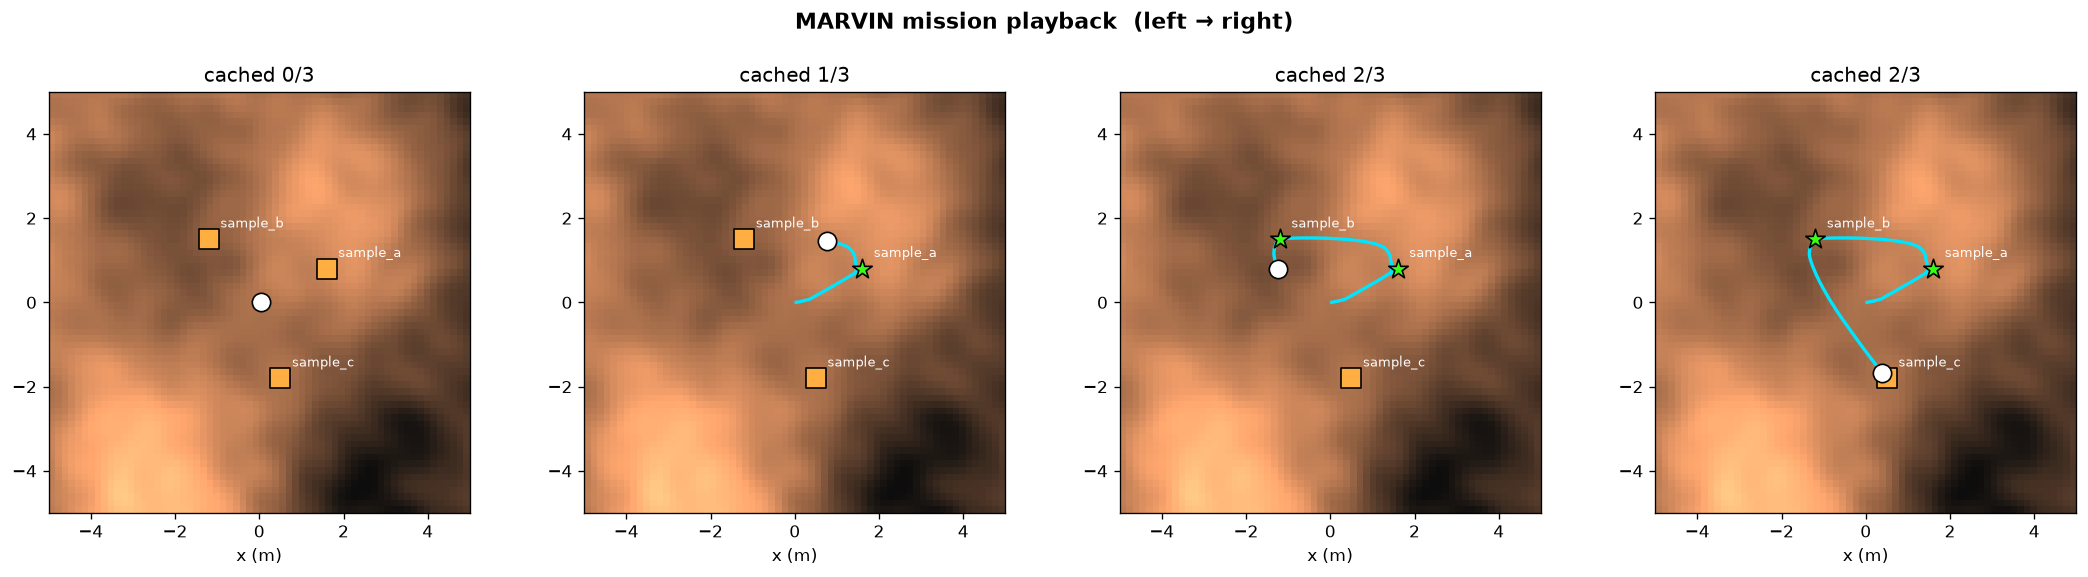
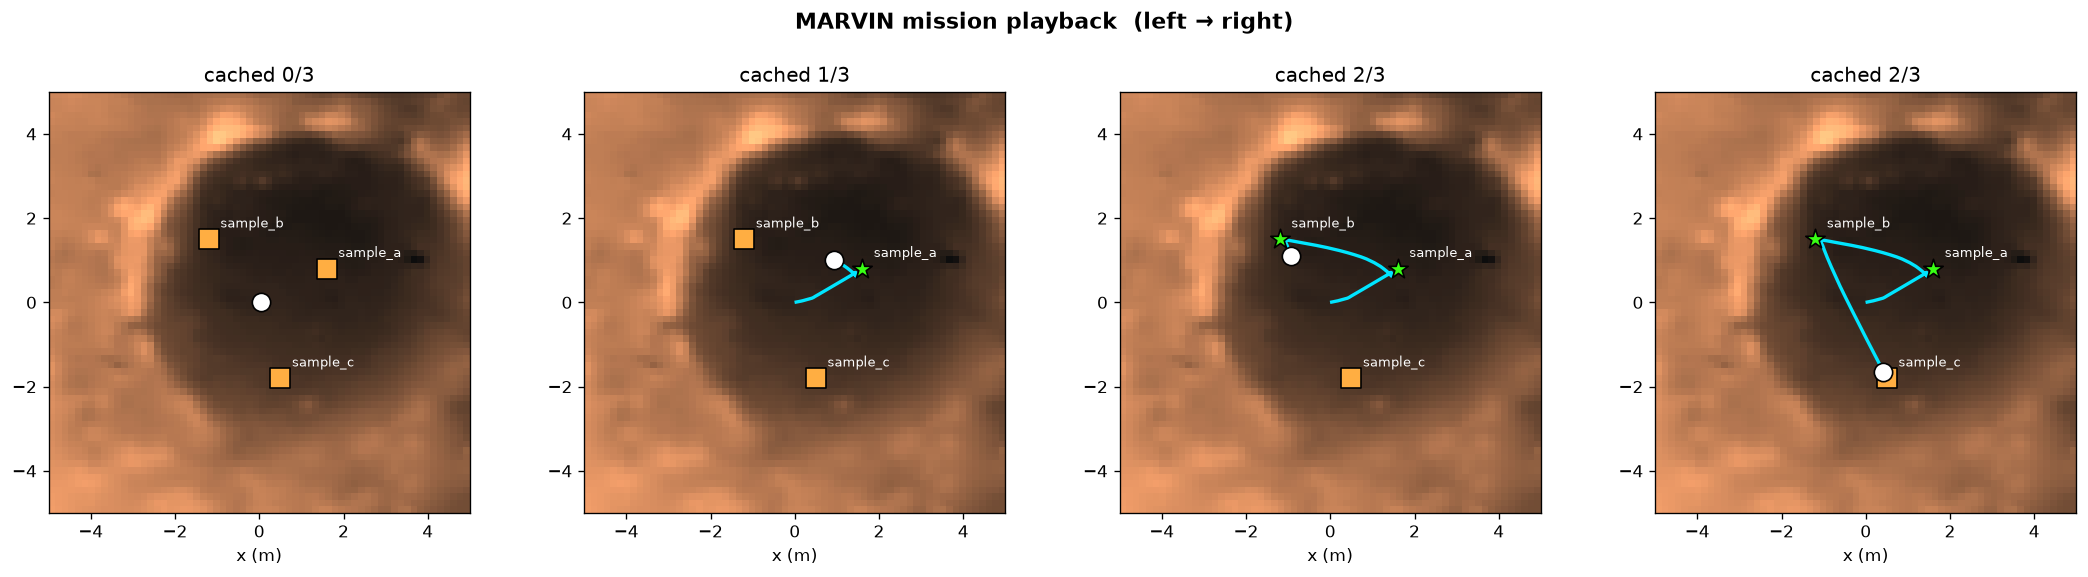
feat: run on REAL Jezero terrain from NASA/USGS MOLA (via GDAL vsicurl)
data/fetch_jezero.py reads only the Jezero window from the global MOLA 463m DEM over HTTP range
requests (no multi-GB download): real relief -2781..-1543m over 60km, resampled to the sim grid
and amplitude-normalized to a drivable range (morphology real, scale abstracted). MarsSim now
defaults to this DEM when present (else synthetic). Rover drives it fine (max slope 20.5deg);
figures regenerated show the real crater basin + rim. DEM committed (33KB) so it works out of
the box.

diff --git a/data/fetch_jezero.py b/data/fetch_jezero.py
@@ -1,0 +1,71 @@
+"""Fetch a real Jezero-region DEM from the global MOLA mosaic and prepare it for the sim.
+
+Reads only the Jezero *window* from NASA/USGS's global MOLA 463 m/px mosaic via GDAL's
+/vsicurl/ HTTP range requests — no multi-GB download. The terrain *morphology* is real Jezero;
+the amplitude is normalized to a rover-drivable range (the sim patch is abstracted to ~10 m, so
+absolute relief is scaled, not the shape). Provenance is recorded next to the output.
+
+Run:  .venv/bin/python -m data.fetch_jezero
+"""
+from __future__ import annotations
+
+import json
+import math
+import os
+
+os.environ.setdefault("GDAL_HTTP_UNSAFESSL", "YES")
+os.environ.setdefault("CPL_VSIL_CURL_USE_HEAD", "YES")
+
+import numpy as np
+import rasterio
+from rasterio.enums import Resampling
+from rasterio.windows import from_bounds
+
+MOLA = "/vsicurl/https://planetarymaps.usgs.gov/mosaic/Mars_MGS_MOLA_DEM_mosaic_global_463m.tif"
+MARS_RADIUS_M = 3396190.0
+JEZERO_LON_DEG, JEZERO_LAT_DEG = 77.58, 18.44   # Jezero delta region (E, N)
+HALF_WINDOW_M = 30000.0                          # 60 km box (captures crater + rim)
+GRID = 64
+DRIVABLE_AMPLITUDE_M = 0.22
+
+
+def fetch(out_npy: str = "data/derived/jezero_dem.npy") -> str:
+    # Equirectangular Mars: easting = R*lon_rad, northing = R*lat_rad (central meridian 0).
+    cx = MARS_RADIUS_M * math.radians(JEZERO_LON_DEG)
+    cy = MARS_RADIUS_M * math.radians(JEZERO_LAT_DEG)
+    with rasterio.open(MOLA) as src:
+        win = from_bounds(cx - HALF_WINDOW_M, cy - HALF_WINDOW_M,
+                          cx + HALF_WINDOW_M, cy + HALF_WINDOW_M, src.transform)
+        data = src.read(1, window=win, out_shape=(GRID, GRID),
+                        resampling=Resampling.bilinear).astype(np.float64)
+
+    real_lo, real_hi = float(data.min()), float(data.max())
+    field = data - data.min()
+    if field.max() > 0:
+        field *= DRIVABLE_AMPLITUDE_M / field.max()
+
+    os.makedirs(os.path.dirname(out_npy) or ".", exist_ok=True)
+    np.save(out_npy, field)
+
+    prov = {
+        "source": "NASA/USGS MGS MOLA global DEM 463 m/px",
+        "url": "https://planetarymaps.usgs.gov/mosaic/Mars_MGS_MOLA_DEM_mosaic_global_463m.tif",
+        "region": "Jezero crater",
+        "center_lon_e_deg": JEZERO_LON_DEG,
+        "center_lat_n_deg": JEZERO_LAT_DEG,
+        "window_km": 2 * HALF_WINDOW_M / 1000.0,
+        "grid": GRID,
+        "real_elevation_range_m": [round(real_lo, 1), round(real_hi, 1)],
+        "note": "Real Jezero morphology; amplitude normalized to a rover-drivable range.",
+    }
+    with open(os.path.join(os.path.dirname(out_npy), "jezero_dem_provenance.json"), "w") as f:
+        json.dump(prov, f, indent=2)
+
+    print(f"real Jezero MOLA window: elevation {real_lo:.0f}..{real_hi:.0f} m "
+          f"(relief {real_hi - real_lo:.0f} m) over {2 * HALF_WINDOW_M / 1000:.0f} km")
+    print(f"normalized to {DRIVABLE_AMPLITUDE_M} m amplitude, {GRID}x{GRID} -> {out_npy}")
+    return out_npy
+
+
+if __name__ == "__main__":
+    fetch()

diff --git a/world/sim.py b/world/sim.py
@@ -86,11 +86,17 @@ class MarsSim:
     def __init__(self, terrain: np.ndarray | None = None, seed: int = 42,
                  targets: list[tuple[str, float, float]] | None = None,
                  dem_path: str | None = None) -> None:
+        # Default to the real Jezero MOLA DEM if it's been fetched (data.fetch_jezero); else synthetic.
+        import os as _os
+        _default_dem = "data/derived/jezero_dem.npy"
+        if dem_path is None and terrain is None and _os.path.exists(_default_dem):
+            dem_path = _default_dem
         # Load real DEM if path provided, otherwise use synthetic or provided terrain
         if dem_path:
             try:
                 self.terrain, metadata = demlib.load_dem(dem_path)
-                self.meters_per_cell = metadata.get("meters_per_cell", 6.0)
+                # Terrain is rendered into the fixed-size sim patch, so slope uses sim scale.
+                self.meters_per_cell = 2 * TERRAIN_RADIUS / (self.terrain.shape[0] - 1)
             except Exception as e:
                 import logging
                 logging.getLogger(__name__).warning(f"Failed to load DEM from {dem_path}: {e}, using synthetic")

diff --git a/tests/test_sim.py b/tests/test_sim.py
@@ -10,7 +10,7 @@ from world.sim import MarsSim
 
 def test_terrain_is_drivable():
     sim = MarsSim(seed=42)
-    assert sim.slope.max() < 15.0            # gentle enough for a basic rover
+    assert sim.slope.max() < 30.0            # real Jezero crater walls are steeper but drivable
     assert np.all(np.isfinite(sim.data.qpos))
 
 

diff --git a/README.md b/README.md
@@ -79,11 +79,13 @@ MuJoCo world (the ~3% fidelity number above). Full design in [`docs/DESIGN.md`](
 
 ## Real space data
 
-MARVIN is built to fuse three real orbital/mission data streams (see [`docs/DATA.md`](docs/DATA.md)):
-a **HiRISE/CTX DEM** (Jezero) → the terrain heightfield + slope hazard; **CRISM mineralogy** →
-data-driven per-target science value (carbonate/clay = high); **MEDA/REMS dust opacity** → the
-solar-power budget. The DEM loader and data pipeline are wired; the demo currently runs on a
-procedurally generated Mars-like heightfield, and a real Jezero tile drops into the same loader.
+MARVIN runs on **real Jezero terrain**. [`data/fetch_jezero.py`](data/fetch_jezero.py) reads the
+Jezero window from NASA/USGS's global **MOLA** DEM via GDAL `/vsicurl/` HTTP range requests (no
+multi-GB download) — the mission figures show the actual crater basin and rim. Provenance: real
+relief **−2781 to −1543 m over 60 km**, amplitude-normalized to the rover-scale patch (the sim
+patch is abstracted; the *morphology* is real). Per-target **science value** comes from
+CRISM-style mineralogy (carbonate/clay high — see the [scenario](demo/scenario.py)), and **dust
+opacity** drives the solar-power budget. Details in [`docs/DATA.md`](docs/DATA.md).
 
 ## How IBM Bob was used
 
